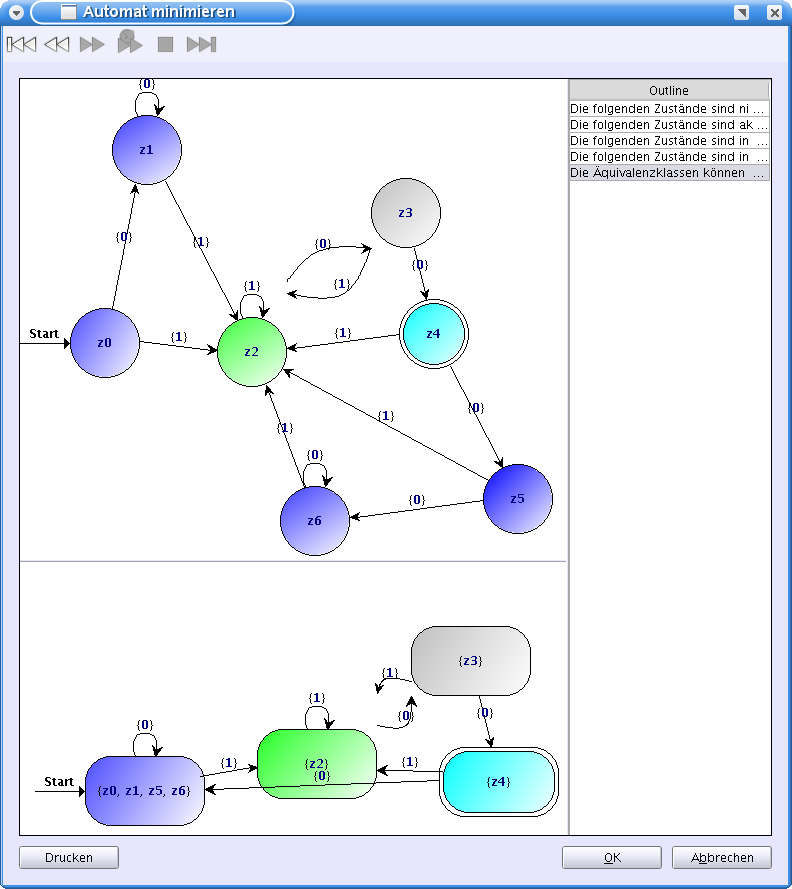
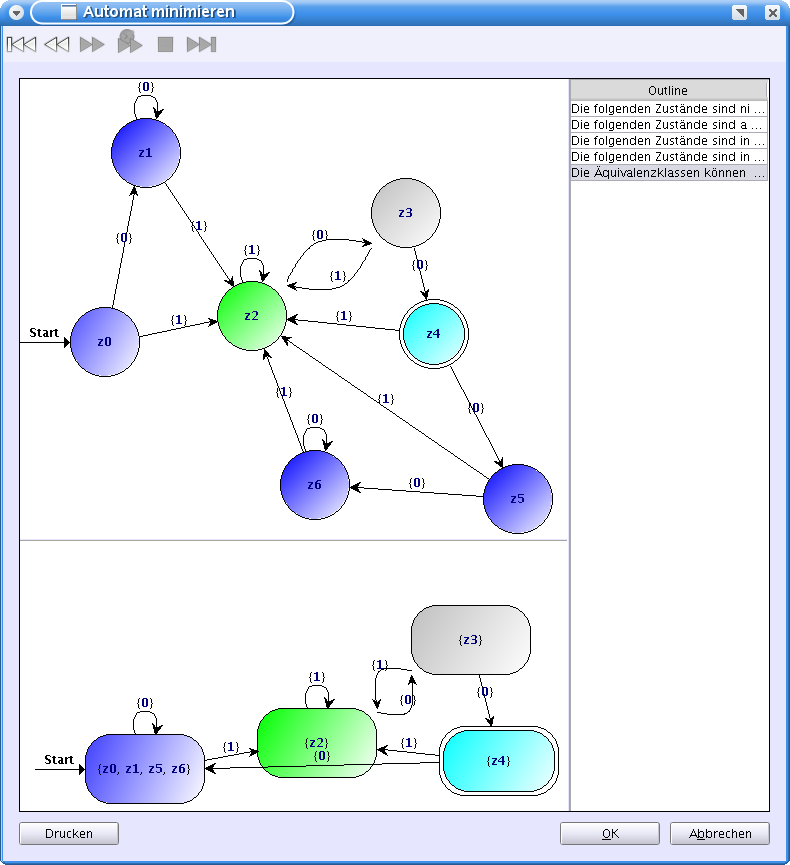
- Bugfix: Remove the loop transition special height case because of problems with the parallel edge renderer. - Update the manual examples and images because of the bugfix.
git-svn-id: https://vcs.informatik.uni-siegen.de/svn/gtitool/trunk@1181 d1fb0f2a-2248-4f96-a540-7c12a6a72a62

diff --git a/de.unisiegen.gtitool.ui/source/de/unisiegen/gtitool/ui/jgraph/StateView.java b/de.unisiegen.gtitool.ui/source/de/unisiegen/gtitool/ui/jgraph/StateView.java
@@ -369,8 +369,8 @@ public final class StateView extends VertexView
               addText = addText.substring ( 0, addText.length () - 1 );
             }
 
-            prettyString.add ( new PrettyToken ( addText,
-                lastPrettyToken.getStyle () ) );
+            prettyString.add ( new PrettyToken ( addText, lastPrettyToken
+                .getStyle () ) );
           }
 
           dx += offsetX;
@@ -515,9 +515,10 @@ public final class StateView extends VertexView
 
 
   /**
-   * The loop {@link Transition} offset.
+   * The loop {@link Transition} offset. Disabled because of problems with the
+   * parallel edge renderer.
    */
-  public final static int LOOP_TRANSITION_OFFSET = 36;
+  public final static int LOOP_TRANSITION_OFFSET = 0;
 
 
   /**
